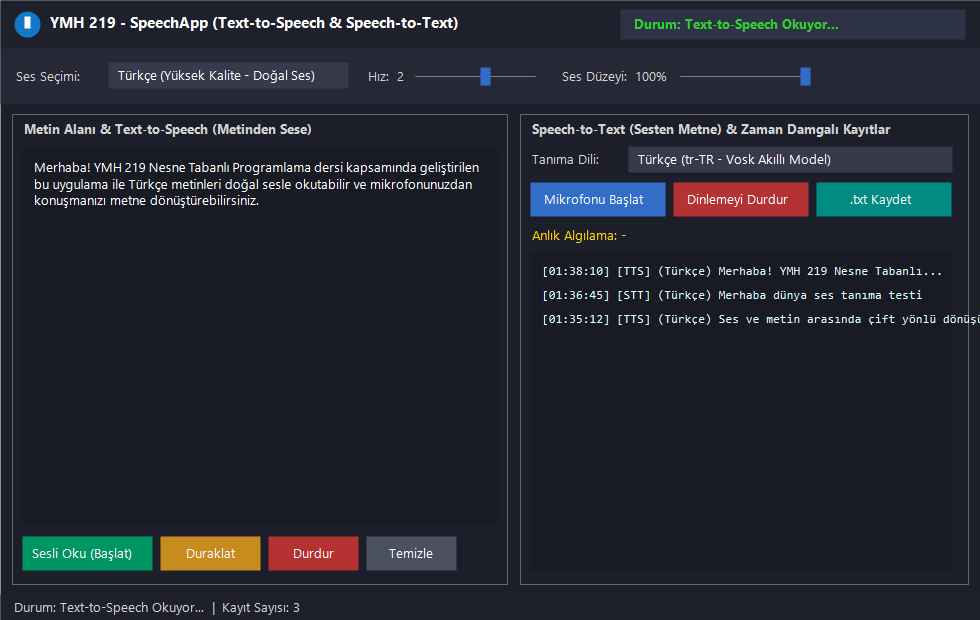
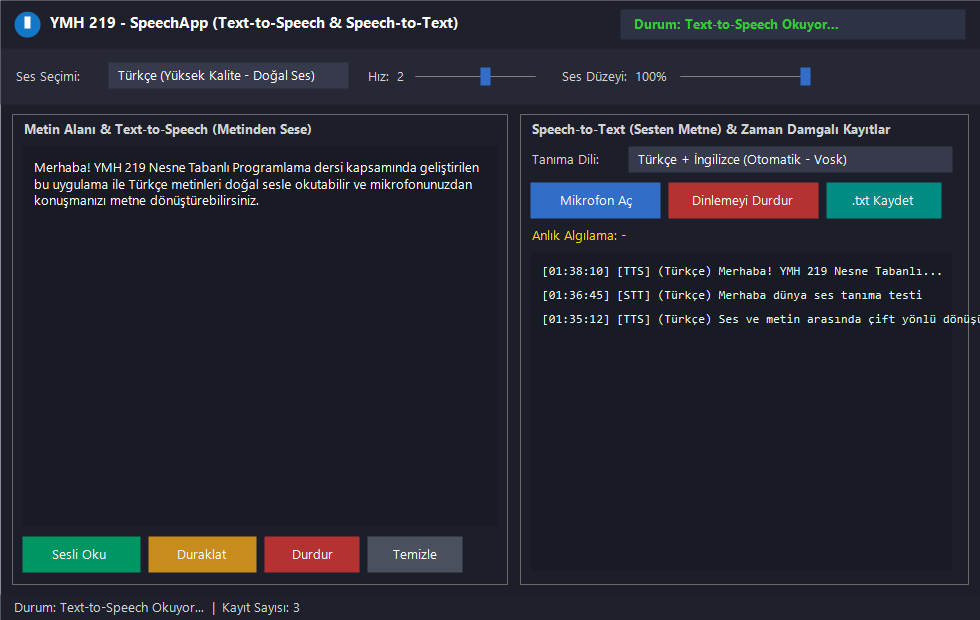
düzeltme: Buton yerleşimleri, Temizle kapsamı ve güncel ekran görüntüleri/README yenilendi

Changed region(s): [[0.551, 0.2452, 0.9796, 0.3677], [0.0306, 0.8581, 0.4898, 0.95]]

diff --git a/SpeechApp/MainForm.Designer.cs b/SpeechApp/MainForm.Designer.cs
@@ -139,10 +139,10 @@ partial class MainForm
         // splitMain
         splitMain.Dock = DockStyle.Fill;
         splitMain.Orientation = Orientation.Vertical;
-        splitMain.Size = new Size(980, 500);
-        splitMain.Panel1MinSize = 300;
-        splitMain.Panel2MinSize = 300;
-        splitMain.SplitterDistance = 520;
+        splitMain.Size = new Size(1060, 520);
+        splitMain.Panel1MinSize = 440;
+        splitMain.Panel2MinSize = 440;
+        splitMain.SplitterDistance = 530;
         splitMain.Padding = new Padding(8);
 
         // grpText (Left: TTS + Metin Alani)
@@ -159,12 +159,12 @@ partial class MainForm
         rtbText.Text = "Merhaba! Bu metni sesli olarak okutabilir veya mikrofonu baslatarak konusmanizi metne donusturebilirsiniz.";
 
         pnlTextButtons.Dock = DockStyle.Bottom;
-        pnlTextButtons.Height = 48;
+        pnlTextButtons.Height = 50;
         pnlTextButtons.Padding = new Padding(0, 8, 0, 0);
 
-        btnSpeak.Text = "Sesli Oku (Baslat)";
+        btnSpeak.Text = "Sesli Oku";
         btnSpeak.Location = new Point(0, 8);
-        btnSpeak.Size = new Size(140, 34);
+        btnSpeak.Size = new Size(118, 36);
         btnSpeak.BackColor = Color.FromArgb(0, 150, 100);
         btnSpeak.ForeColor = Color.White;
         btnSpeak.FlatStyle = FlatStyle.Flat;
@@ -172,8 +172,8 @@ partial class MainForm
         pnlTextButtons.Controls.Add(btnSpeak);
 
         btnPauseResume.Text = "Duraklat";
-        btnPauseResume.Location = new Point(148, 8);
-        btnPauseResume.Size = new Size(110, 34);
+        btnPauseResume.Location = new Point(126, 8);
+        btnPauseResume.Size = new Size(108, 36);
         btnPauseResume.BackColor = Color.FromArgb(200, 140, 30);
         btnPauseResume.ForeColor = Color.White;
         btnPauseResume.FlatStyle = FlatStyle.Flat;
@@ -182,8 +182,8 @@ partial class MainForm
         pnlTextButtons.Controls.Add(btnPauseResume);
 
         btnStopSpeak.Text = "Durdur";
-        btnStopSpeak.Location = new Point(266, 8);
-        btnStopSpeak.Size = new Size(95, 34);
+        btnStopSpeak.Location = new Point(242, 8);
+        btnStopSpeak.Size = new Size(95, 36);
         btnStopSpeak.BackColor = Color.FromArgb(180, 50, 50);
         btnStopSpeak.ForeColor = Color.White;
         btnStopSpeak.FlatStyle = FlatStyle.Flat;
@@ -192,8 +192,8 @@ partial class MainForm
         pnlTextButtons.Controls.Add(btnStopSpeak);
 
         btnClear.Text = "Temizle";
-        btnClear.Location = new Point(369, 8);
-        btnClear.Size = new Size(95, 34);
+        btnClear.Location = new Point(345, 8);
+        btnClear.Size = new Size(95, 36);
         btnClear.BackColor = Color.FromArgb(75, 80, 95);
         btnClear.ForeColor = Color.White;
         btnClear.FlatStyle = FlatStyle.Flat;
@@ -220,16 +220,16 @@ partial class MainForm
         pnlSttTop.Controls.Add(lblRecognizer);
 
         cmbRecognizer.Location = new Point(100, 4);
-        cmbRecognizer.Width = 285;
+        cmbRecognizer.Width = 340;
         cmbRecognizer.DropDownStyle = ComboBoxStyle.DropDownList;
         cmbRecognizer.FlatStyle = FlatStyle.Flat;
         cmbRecognizer.BackColor = Color.FromArgb(55, 58, 74);
         cmbRecognizer.ForeColor = Color.White;
         pnlSttTop.Controls.Add(cmbRecognizer);
 
-        btnStartListen.Text = "Mikrofonu Baslat";
+        btnStartListen.Text = "Mikrofon Aç";
         btnStartListen.Location = new Point(0, 38);
-        btnStartListen.Size = new Size(140, 34);
+        btnStartListen.Size = new Size(135, 36);
         btnStartListen.BackColor = Color.FromArgb(50, 110, 200);
         btnStartListen.ForeColor = Color.White;
         btnStartListen.FlatStyle = FlatStyle.Flat;
@@ -237,8 +237,8 @@ partial class MainForm
         pnlSttTop.Controls.Add(btnStartListen);
 
         btnStopListen.Text = "Dinlemeyi Durdur";
-        btnStopListen.Location = new Point(148, 38);
-        btnStopListen.Size = new Size(135, 34);
+        btnStopListen.Location = new Point(143, 38);
+        btnStopListen.Size = new Size(155, 36);
         btnStopListen.BackColor = Color.FromArgb(180, 50, 50);
         btnStopListen.ForeColor = Color.White;
         btnStopListen.FlatStyle = FlatStyle.Flat;
@@ -247,8 +247,8 @@ partial class MainForm
         pnlSttTop.Controls.Add(btnStopListen);
 
         btnExportTxt.Text = ".txt Kaydet";
-        btnExportTxt.Location = new Point(291, 38);
-        btnExportTxt.Size = new Size(105, 34);
+        btnExportTxt.Location = new Point(306, 38);
+        btnExportTxt.Size = new Size(115, 36);
         btnExportTxt.BackColor = Color.FromArgb(0, 140, 130);
         btnExportTxt.ForeColor = Color.White;
         btnExportTxt.FlatStyle = FlatStyle.Flat;
@@ -283,8 +283,8 @@ partial class MainForm
 
         // MainForm
         this.Text = "YMH 219 - SpeechApp (TTS & STT)";
-        this.Size = new Size(1020, 660);
-        this.MinimumSize = new Size(880, 540);
+        this.Size = new Size(1080, 680);
+        this.MinimumSize = new Size(960, 560);
         this.BackColor = Color.FromArgb(28, 30, 42);
         this.Controls.Add(splitMain);
         this.Controls.Add(pnlTtsControls);

diff --git a/SpeechApp/MainForm.cs b/SpeechApp/MainForm.cs
@@ -90,6 +90,10 @@ public partial class MainForm : Form
     private void btnClear_Click(object? sender, EventArgs e)
     {
         rtbText.Clear();
+        _records.Clear();
+        lstRecords.Items.Clear();
+        lblHypothesis.Text = "Anlık Algılama: -";
+        tsslRecordCount.Text = "Kayıt Sayısı: 0";
     }
 
     private void OnTtsStatusChanged(string state)

diff --git a/README.md b/README.md
@@ -61,11 +61,12 @@ YMH219-SpeechApp/
 
 - **Text-to-Speech (TTS):**
   - Metin alanındaki (`RichTextBox`) Türkçe veya İngilizce içeriği doğal sesle okuma
-  - **Başlat**, **Duraklat / Devam Et**, **Durdur** ve **Temizle** kontrolleri
+  - **Sesli Oku**, **Duraklat / Devam Et**, **Durdur** ve **Temizle** kontrolleri (**Temizle** butonu hem metin alanını hem de anlık algılama ile zaman damgalı kayıt listesini temizler)
   - Yüksek kaliteli Türkçe/İngilizce doğal ses ile yerel `[Yerel SAPI]` sistem sesleri arasında seçim (`ComboBox`)
   - Okuma hızı (`-10` ile `+10`) ve ses düzeyi (`0%` ile `100%`) ayarı
 - **Speech-to-Text (STT):**
-  - Vosk + NAudio tabanlı **Türkçe (`tr-TR`)** ve İngilizce (`en-US`) çevrimdışı konuşma tanıma
+  - Vosk + NAudio tabanlı **Türkçe + İngilizce (Otomatik)**, **Türkçe (`tr-TR`)** ve **İngilizce (`en-US`)** çevrimdışı konuşma tanıma
+  - **Mikrofon Aç** ve **Dinlemeyi Durdur** kontrolleri; canlı dil değişikliğinde otomatik model geçişi
   - Mikrofon üzerinden konuşmayı algılayıp anlık tahmin (`Anlık Algılama`) ve kesinleşen metni metin alanına aktarma
   - Mikrofon veya konuşma tanıma servisine erişilemediğinde kullanıcıya anlaşılır Türkçe hata mesajları
 - **Arayüz ve Dışa Aktarım:**
